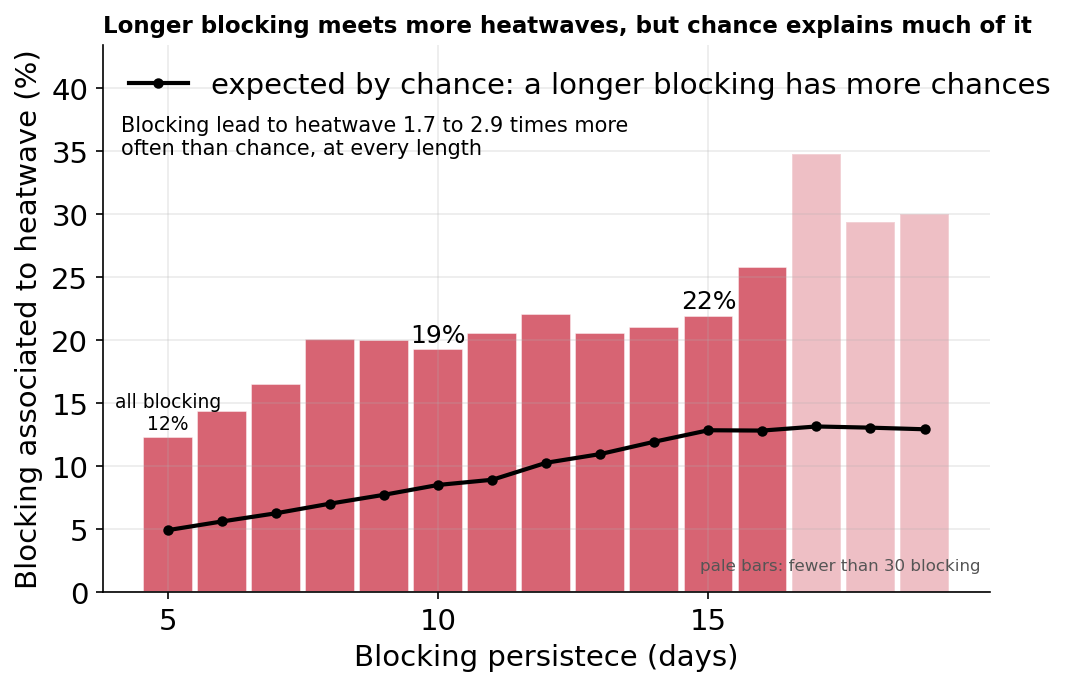
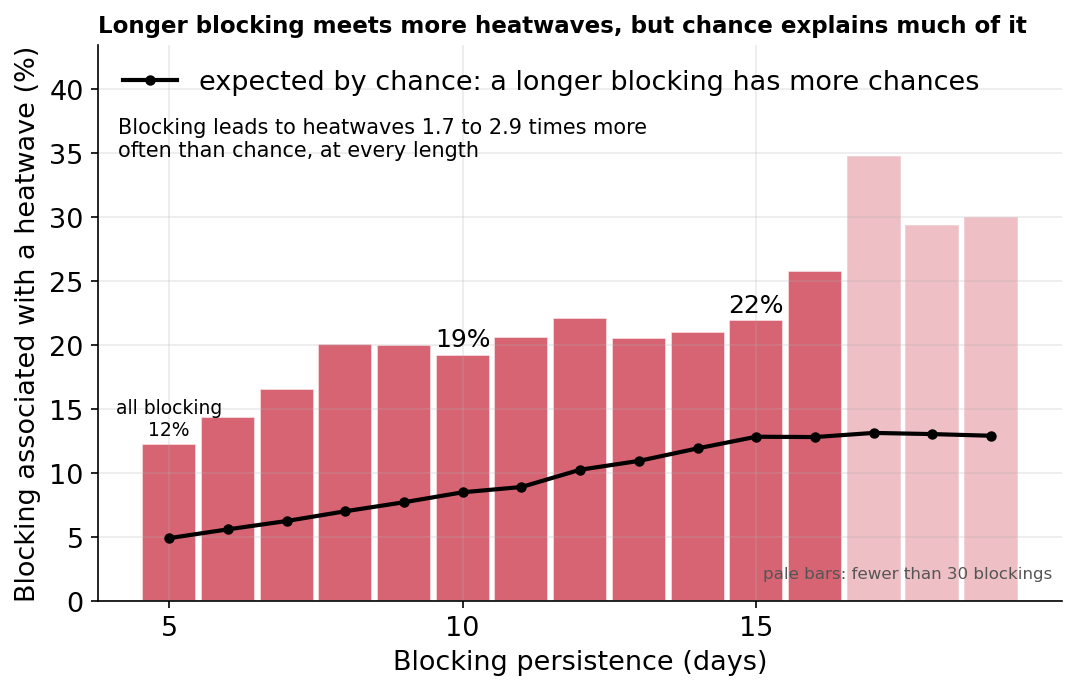
blocking_heatwave_page

Changed region(s): [[0.0, 0.0612, 0.9814, 0.9796], [0.092, 0.0, 0.9507, 0.0612], [0.0613, 0.7347, 0.092, 0.7959]]

diff --git a/_projects/3_heatwave_blocking_ml.md b/_projects/3_heatwave_blocking_ml.md
@@ -1,7 +1,7 @@
 ---
 layout: page
-title: Atmospheric blocking can trigger heatwaves but not always ! 
-description: A small machine-learning study of atmospheric blocking and summer heatwaves (ERA5, 1979–2024)
+title: Atmospheric blocking can trigger heatwaves, but not always
+description: A small machine-learning study of atmospheric blocking and summer heatwaves (ERA5, 1979–2025)
 img: assets/img/fig2_ml_models.png
 importance: 1
 category: data science
@@ -9,52 +9,51 @@ category: data science
 
 <div class="card p-3 mb-4 bg-light">
   <strong>The study in brief.</strong>
-  Atmospheric blocking is weather patter which is persistent high pressure system that can trigger weather extremes.
-   This is a small machine-learning part of a larger study on the link between blocking and heatwaves.
+  Atmospheric blocking is a persistent high-pressure system that can trigger weather extremes.
+  This is a small machine-learning part of another study on the link between blocking and heatwaves over mid-latitudes.
   <br><br>
   <a href="https://doi.org/10.5281/zenodo.23714803">Data and code (Zenodo)</a> ·
   <a href="https://github.com/Vinita-D/Blocking_to_heatwaves_ML">Machine-learning code (GitHub)</a>
 </div>
 
 **The question.** Can we predict a heatwave from the properties of a blocking: how long it lasts, how large
-and strong it is, and where and when it occurs? And does a longer blocking bring severe heatwaves across mid latitudes?
+and strong it is, and where and when it occurs? And does a longer blocking bring more severe heatwaves?
 
-**Methods.** Multivariate (logistic and linear) regression and random forest, built with scikit-learn.
-I learned these machine-learning methods in the
+**Methods.** Multivariate (logistic and linear) regression, random forest and gradient boosting, built with
+scikit-learn. I learned these machine-learning methods in the
 [ECMWF "Machine Learning for Earth System Modelling" course](https://learning.ecmwf.int/course/view.php?id=99).
 
-
-**How.** Blocking and heatwaves are tracked as moving objects in ERA5 reanalysis (1979 to 2024): blocking from
+**How.** Blocking and heatwaves are tracked as moving objects in ERA5 reanalysis (1979 to 2025): blocking from
 an upper-atmosphere signal (potential vorticity), heatwaves from unusually hot surface temperatures. A blocking
-is linked to a heatwave when their outlines overlap. About 800 blocking events, 13% of which were associated with
-heatwave, This data is used to train a multivariate regression and a random forest (scikit-learn). They are tested on
-summers they never saw, and compared with what chance alone gives, because a longer blocking has more days in
-which a heatwave could occur simply due to longer overlapping timesteps
+is linked to a heatwave when their outlines overlap. About 800 blocking events were detected, 12% of which were
+associated with a heatwave. The models are tested on summers they never saw, and compared with what chance alone
+gives, because a longer blocking has more time steps in which a heatwave could occur simply by overlapping.
 
 <div class="row justify-content-center">
   <div class="col-sm-12 mt-3">
-    {% include figure.liquid path="assets/img/ml_2_training.png" class="img-fluid rounded z-depth-1" zoomable=true %}
-    <div class="caption">Whole summers are kept back for testing (a). The model learns from past blocking (b)
+    {% include figure.liquid path="assets/img/fig2_training.png" class="img-fluid rounded z-depth-1" zoomable=true %}
+    <div class="caption">Whole summers are kept back for testing (a). The model learns from past blocking (b),
     and its predictions for unseen summers match what happened (c).</div>
   </div>
 </div>
 
 **Conclusions**
-- Blocking is clearly linked to heatwaves: it meets them two to three times more often than chance.
-- But a longer blocking does not clearly shows more frequent heatwaves or more severe heatwave events.
-- Block size, persistence and position tell best whether a heatwave occurs, but not how intense, long or large it becomes. That needs more complex information, such surface fluxes, heat and moisture transport, soil moisture deficient etc.
+- Blocking is clearly linked to heatwaves: it meets them about two to three times more often than chance.
+- But a longer blocking does not clearly bring more frequent or more severe heatwaves.
+- Block size, persistence and position tell best whether a heatwave occurs, but not how intense, long or large it
+  becomes. That needs more information, such as surface fluxes, heat and moisture transport, and soil-moisture deficits.
 
 <div class="row justify-content-center">
-  <div class="col-sm-9 mt-3">
-    {% include figure.liquid path="assets/img/ml_3_occurrence.png" class="img-fluid rounded z-depth-1" zoomable=true %}
-    <div class="caption">How often each kind of information picked the blocking that brought the heatwave
-    (50% = guessing).</div>
+  <div class="col-sm-12 mt-3">
+    {% include figure.liquid path="assets/img/fig5_summary.png" class="img-fluid rounded z-depth-1" zoomable=true %}
+    <div class="caption">Does blocking bring a heatwave (left) and how severe is it (right). Points are the mean over
+    30 splits of the summers, bars the spread. Guessing is 50% (left); below zero is worse than guessing the
+    average (right).</div>
   </div>
 </div>
 
-**Try the ML model : 27 June 2021.** The model found 3 blocking circulation in Norther hemisphere that day. It gave the highest
-chance to the blocing over North America, the one that brought the record Pacific Northwest
-heatwave.
+**Trying/Testing the ML model: 27 June 2021.** The model found 3 blocking highs in the Northern Hemisphere that day. It gave
+the highest chance to the blocking over North America, the one that brought the record Pacific Northwest heatwave.
 
 | North American block | ML prediction | Real (ERA5) |
 |---|---|---|
